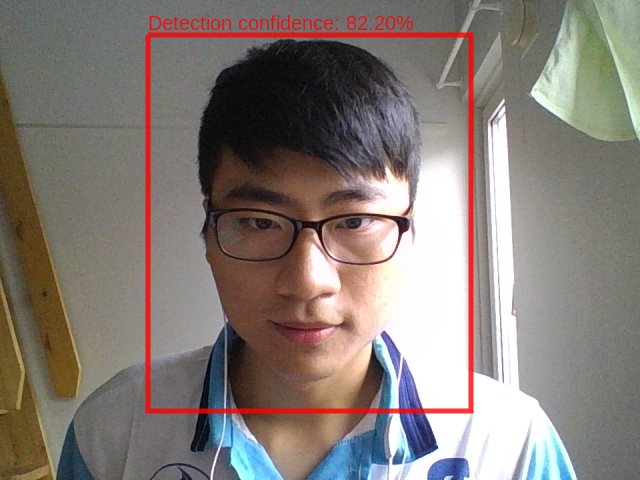
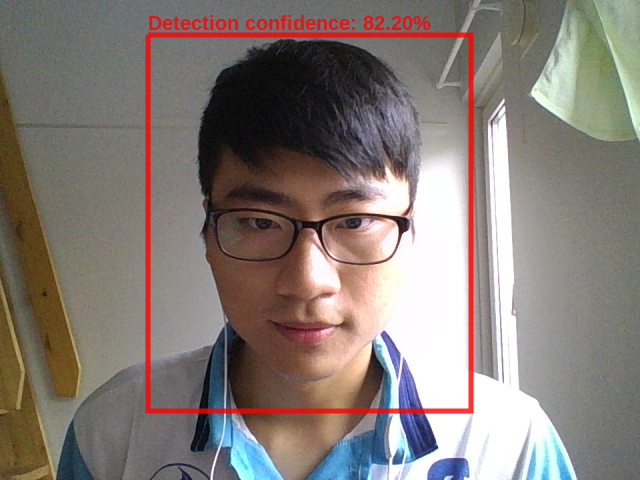
added landmarkDetection.js

Changed region(s): [[0.2188, 0.0312, 0.6875, 0.0625]]

diff --git a/scripts/landmarkDetection.js b/scripts/landmarkDetection.js
@@ -3,31 +3,110 @@
 
 const vision = require('@google-cloud/vision');
 const fs = require('fs');
-var client = new vision.ImageAnnotatorClient();
+const {createCanvas, Image } = require('canvas')
 
-function detectLandmarks(fileName) {
-    // [START vision_landmark_detection]
-    const vision = require('@google-cloud/vision');
-  
-    // Creates a client
-    const client = new vision.ImageAnnotatorClient();
-  
-    /**
-     * TODO(developer): Uncomment the following line before running the sample.
-     */
-    // const fileName = 'Local image file, e.g. /path/to/image.png';
-  
-    // Performs landmark detection on the local file
-    client
-      .landmarkDetection(fileName)
-      .then(results => {
-        const landmarks = results[0].landmarkAnnotations;
-        console.log('Landmarks:');
-        landmarks.forEach(landmark => console.log(landmark));
-      })
-      .catch(err => {
-        console.error('ERROR:', err);
+var client = new vision.ImageAnnotatorClient();
+function highlightFaces(inputFile, outputFile, faces, callback) {
+  fs.readFile(inputFile, (err, image) => {
+    if (err) {
+      return callback(err);
+    }
+    // Open the original image into a canvas
+    var img = new Image;
+    img.src = image;
+    var canvas = createCanvas(img.width, img.height);
+    var context = canvas.getContext('2d');
+    context.drawImage(img, 0, 0, img.width, img.height);
+
+    // Now draw boxes around all the faces
+    context.strokeStyle = 'rgba(255,0,0,0.8)';
+    context.lineWidth = '5';
+    context.fillStyle = 'rgba(255,0,0,0.8)';
+
+    faces.forEach(face => {
+      context.beginPath();
+      let origX = 0;
+      let origY = 0;
+      face.boundingPoly.vertices.forEach((bounds, i) => {
+        if (i === 0) {
+          origX = bounds.x;
+          origY = bounds.y;
+        }
+        context.lineTo(bounds.x, bounds.y);
       });
-    // [END vision_landmark_detection]
-  }
+      context.lineTo(origX, origY);
+      context.stroke();
+      // Show detection confident
+      context.font = 'bold 20px arial';
+      // 'origY-5' so the text wont get so close to the box
+      context.fillText('Detection confidence: '+(face.detectionConfidence*100).toFixed(2) + "%", origX, origY-5);
+      
+      
+      face.landmarks.forEach((landmark) => {
+        if (landmark.type != "UNKNOWN_LANDMARK"){
+          let pointX=landmark.position.x;
+          let pointY=landmark.position.y;
+          context.fillRect(pointX,pointY,3,3);
+          //context.font = 'bold 10px arial';
+          //context.textAlign = 'center';
+          //context.fillText(landmark.type,pointX,pointY);
+        }
+      });
+      
+    });
+      
   
+    // Write the result to a file
+    console.log('Writing to file ' + outputFile);
+    var writeStream = fs.createWriteStream(outputFile);
+    var pngStream = canvas.pngStream();
+
+    pngStream.on('data', chunk => {
+      writeStream.write(chunk);
+    });
+    pngStream.on('error', console.log);
+    pngStream.on('end', callback);
+  });
+}
+
+// Send request
+function detectFaces(inputFile, callback){
+    const request = {image: {source: {filename: inputFile}}}
+    client
+    // This line send the type of the request
+        .faceDetection(request)
+        .then(results => {
+            // Results is an object, more can be found in the document
+            const faces = results[0].faceAnnotations;
+            var numFaces = faces.length;
+            console.log('Found ' + numFaces + (numFaces === 1 ? ' face' : ' faces'));
+            callback(null, faces);
+        })
+        .catch(err => {
+            console.error('ERROR:',err);
+            callback(err);
+        });
+}
+
+function main(callback){
+    callback('Running...');
+    var inputFile = './images/landmark.jpg';
+    var outputFile = './output_images/landmark_detail.png'
+    // Detecting the faces
+    detectFaces(inputFile, (err, faces) => {
+        if (err){
+            return callback(err);
+        }
+        callback('Dectecting finished.');
+        // Highlighting the faces
+        highlightFaces(inputFile, outputFile, faces, err =>{
+            if (err) {
+                return callback(err);
+            }
+            console.log('Highlighting finished!');
+        });
+    })
+
+    
+}
+main(console.log);

diff --git a/scripts/faceDetection.js b/scripts/faceDetection.js
@@ -37,7 +37,7 @@ function highlightFaces(inputFile, outputFile, faces, callback) {
         context.lineTo(origX, origY);
         context.stroke();
         // Show detection confident
-        context.font = '20px arial';
+        context.font = 'bold 20px arial';
         // 'origY-5' so the text wont get so close to the box
         context.fillText('Detection confidence: '+(face.detectionConfidence*100).toFixed(2) + "%", origX, origY-5);
       });

diff --git a/readme.md b/readme.md
@@ -87,4 +87,4 @@ businesspers
 
 5.[Other details detection](https://github.com/Aleadinglight/Google-cloud-vision-api/tree/master/scripts/otherFaceDetection.js): Detect the faces and other details, such as: headwear likelihood, blurred likelihood, detection confidence.
 
-<img src="https://github.com/Aleadinglight/Google-cloud-vision-api/blob/master/output_images/putin.png" width="320">
+<img src="https://github.com/Aleadinglight/Google-cloud-vision-api/blob/master/output_images/putin.png" width="500">
